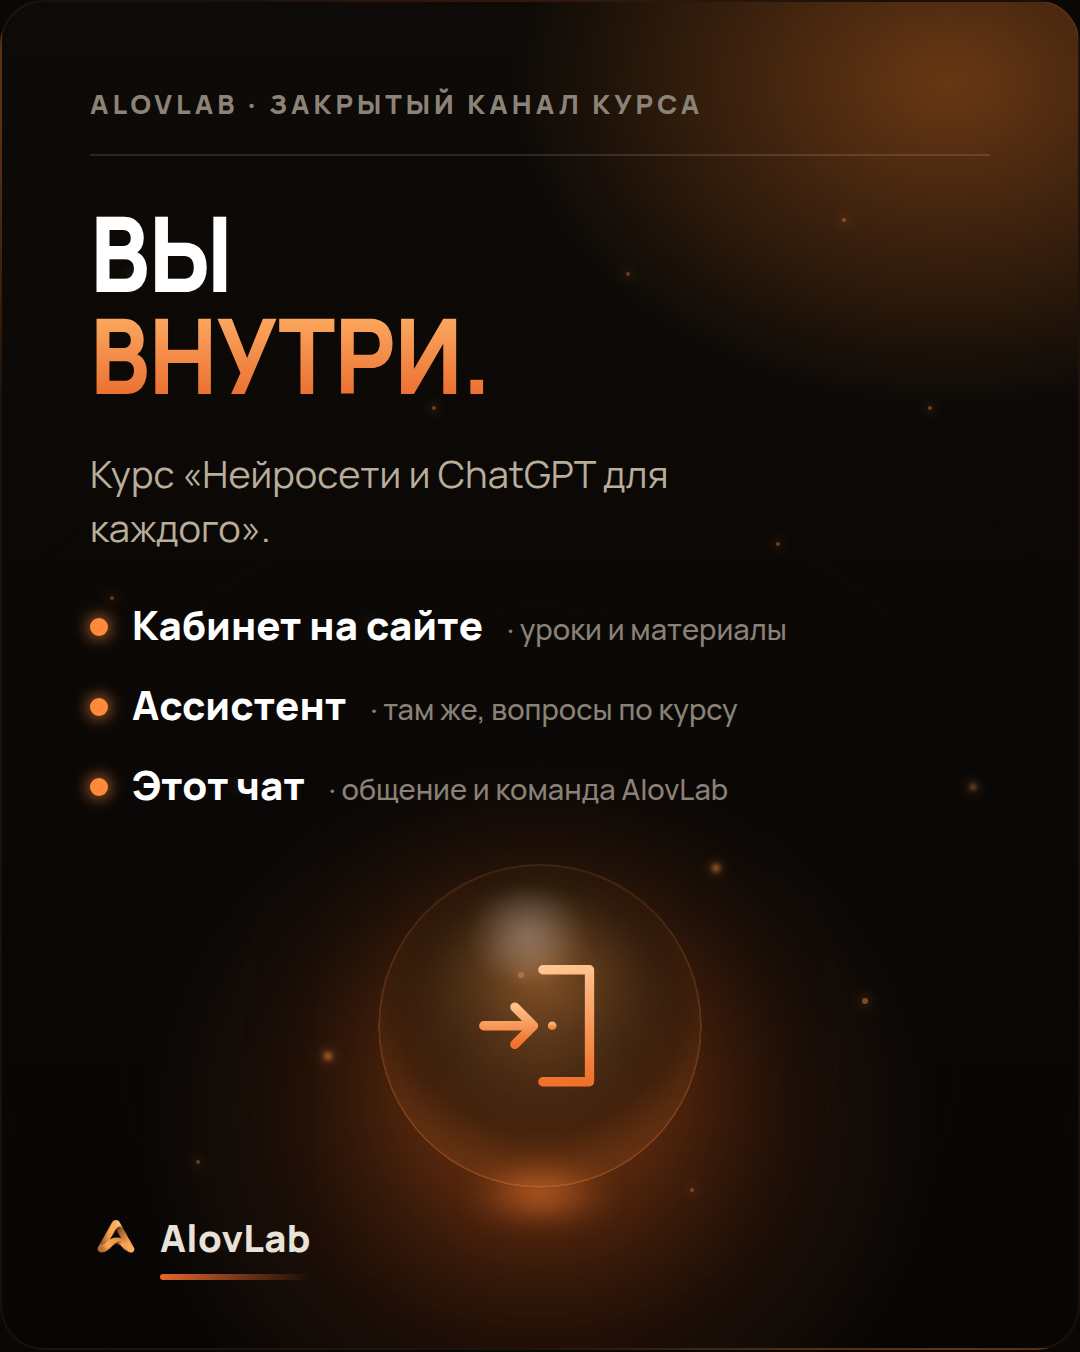
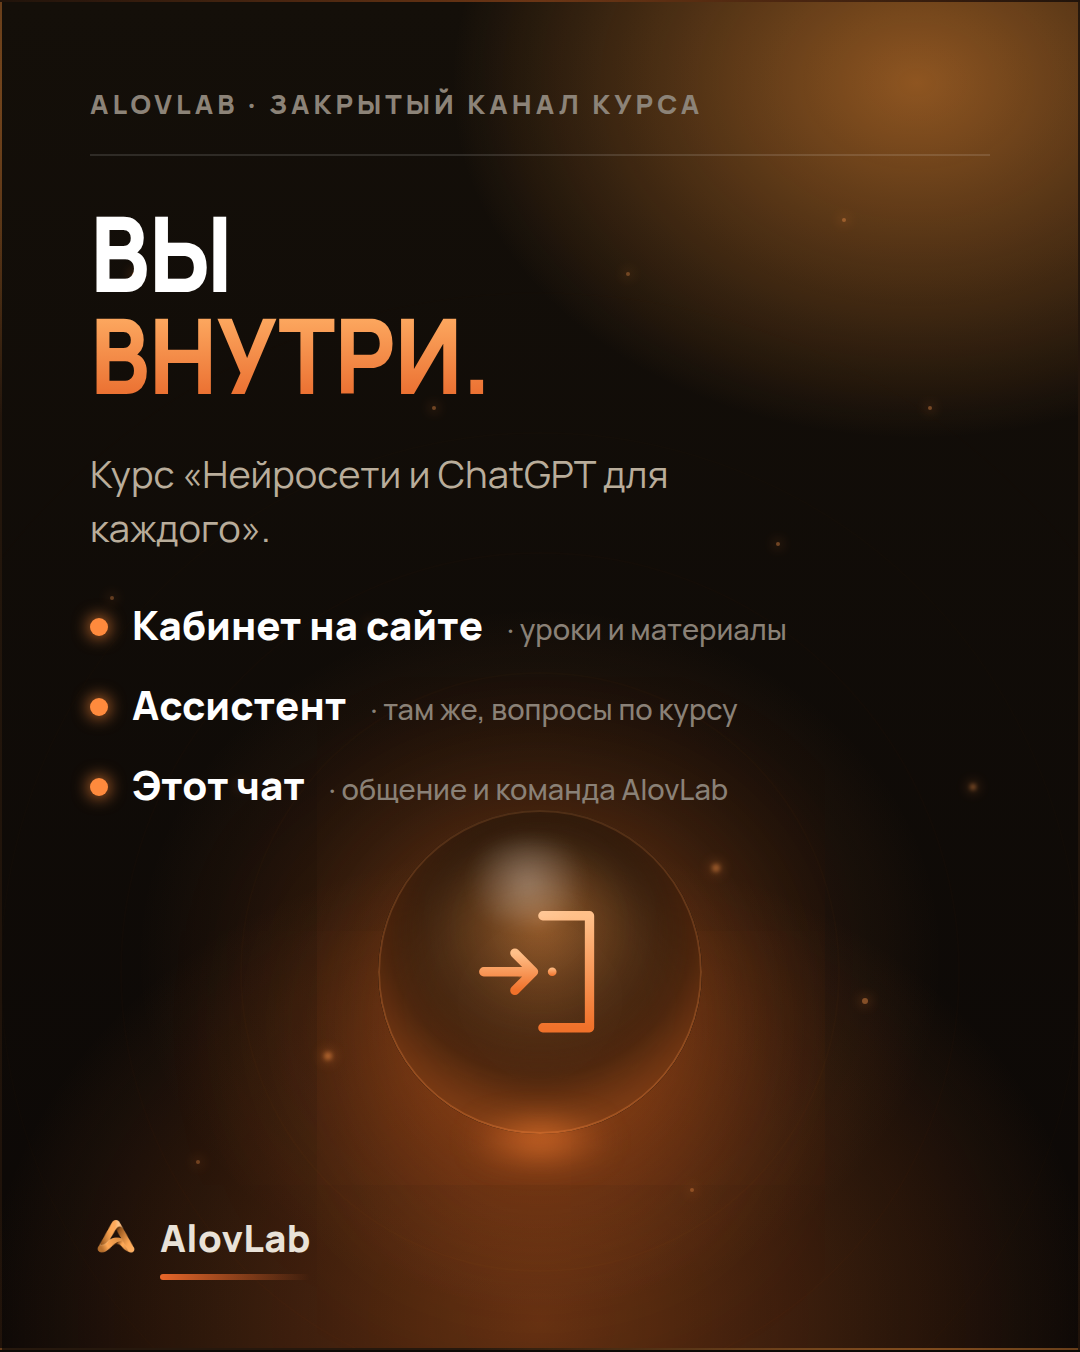
Обложка канала: непрозрачный RGB-фон, ярче свечение, без чёрных зон
Фикс «не видно при скачивании»: убрана прозрачность скруглённых углов,
усилены радиальные свечения и орб, заполнен кадр.

Claude-Session: https://claude.ai/code/session_019LoRMaWcrsShywAHDg8vmg

diff --git a/exports/covers/channel-cover.html b/exports/covers/channel-cover.html
@@ -73,6 +73,17 @@ padding:42px 44px;display:flex;flex-direction:column;border:1px solid rgba(255,1
 .cta .btn{position:relative;z-index:4;align-self:flex-start;margin-top:26px;font-weight:800;font-size:17px;color:#160e07;
  background:linear-gradient(150deg,var(--o2),var(--o));border-radius:13px;padding:16px 26px;box-shadow:0 16px 34px -12px rgba(232,103,42,.8)}
 
+html,body{background:#0d0a07}
+/* непрозрачный фон без скруглений + больше свечения, меньше «мёртвой» черноты */
+.cover.slide{border-radius:0;
+ background:
+  radial-gradient(72% 44% at 85% 6%, rgba(255,150,55,.52), transparent 60%),
+  radial-gradient(82% 56% at 50% 98%, rgba(255,120,40,.36), transparent 63%),
+  radial-gradient(52% 36% at 50% 71%, rgba(255,128,48,.22), transparent 72%),
+  linear-gradient(180deg,#140f09,#0c0806)}
+.cover .orb{box-shadow:inset 0 -22px 44px rgba(255,120,40,.5),inset 0 14px 32px rgba(0,0,0,.6),
+ inset 0 0 0 1px rgba(255,165,95,.32),0 26px 100px rgba(255,110,30,.46)}
+.cover .orbw,.cover .rings{top:72%}
 .cover .sub{max-width:30ch}
 .path{position:relative;z-index:4;margin-top:22px;display:flex;flex-direction:column;gap:13px}
 .path .pi{display:flex;align-items:baseline;gap:12px}

diff --git a/scripts/cover_channel.py b/scripts/cover_channel.py
@@ -8,6 +8,17 @@ OUTDIR = ROOT / "exports" / "covers"; OUTDIR.mkdir(parents=True, exist_ok=True)
 OUT = OUTDIR / "channel-cover.html"
 
 EXTRA = r"""
+html,body{background:#0d0a07}
+/* непрозрачный фон без скруглений + больше свечения, меньше «мёртвой» черноты */
+.cover.slide{border-radius:0;
+ background:
+  radial-gradient(72% 44% at 85% 6%, rgba(255,150,55,.52), transparent 60%),
+  radial-gradient(82% 56% at 50% 98%, rgba(255,120,40,.36), transparent 63%),
+  radial-gradient(52% 36% at 50% 71%, rgba(255,128,48,.22), transparent 72%),
+  linear-gradient(180deg,#140f09,#0c0806)}
+.cover .orb{box-shadow:inset 0 -22px 44px rgba(255,120,40,.5),inset 0 14px 32px rgba(0,0,0,.6),
+ inset 0 0 0 1px rgba(255,165,95,.32),0 26px 100px rgba(255,110,30,.46)}
+.cover .orbw,.cover .rings{top:72%}
 .cover .sub{max-width:30ch}
 .path{position:relative;z-index:4;margin-top:22px;display:flex;flex-direction:column;gap:13px}
 .path .pi{display:flex;align-items:baseline;gap:12px}
